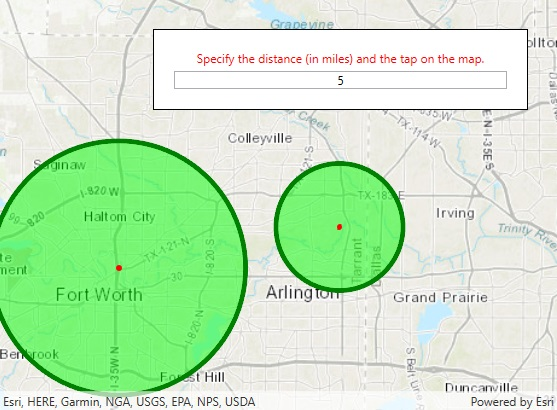
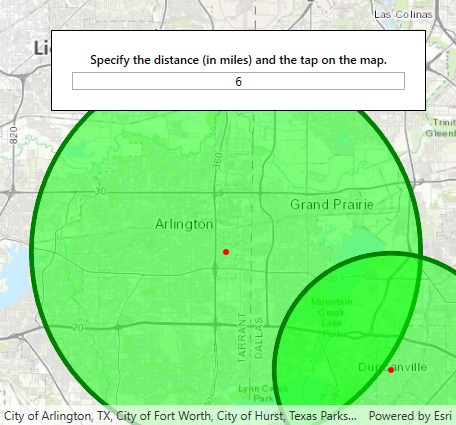
Buffer
Improvements:

* Replace red text with black

diff --git a/src/WPF/ArcGISRuntime.WPF.Viewer/Samples/GeometryEngine/Buffer/Buffer.xaml b/src/WPF/ArcGISRuntime.WPF.Viewer/Samples/GeometryEngine/Buffer/Buffer.xaml
@@ -10,8 +10,7 @@
             Margin="30" Padding="20" Width="375">
             <StackPanel>
                 <TextBlock Text="Specify the distance (in miles) and the tap on the map."
-                           TextAlignment="Center" 
-                           Foreground="Red" />
+                           TextAlignment="Center" FontWeight="SemiBold" />
                 <TextBox x:Name="BufferDistanceMilesTextBox"
                          Margin="0,5,0,0" TextAlignment="Center"
                          Text="10" />
